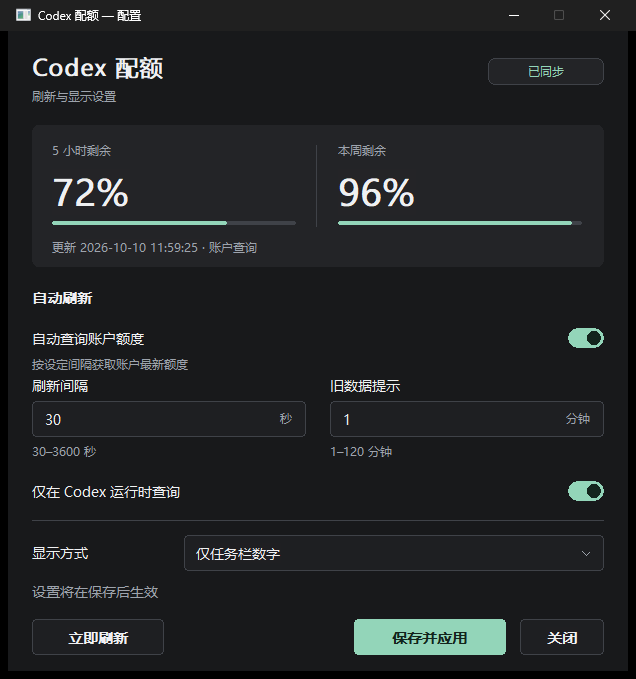
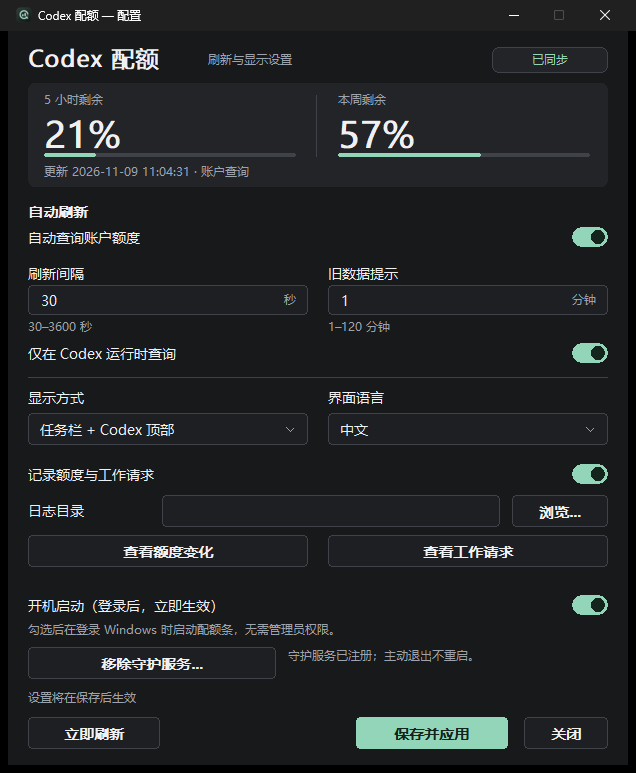
Prepare preview.10 packages, safe uninstall and bilingual release notes

diff --git a/README.en.md b/README.en.md
@@ -10,7 +10,7 @@ It is intended for Codex desktop or CLI users who want visible quota values and 
 
 Built with C++17 and native platform interfaces, without Electron or WebView. Chinese/English can be selected in Settings and applied immediately. This is an independently running companion, not affiliated with OpenAI. See [README.md](README.md) for the Chinese guide.
 
-**[Download v3.0.0-preview.9](https://github.com/jyongli/codex-quota-strip/releases/tag/v3.0.0-preview.9)** · [What's new](docs/releases/v3.0.0-preview.9.en.md) · [Choose an installer / compatibility / install and remove](docs/installers.en.md) · [Linux/macOS source builds](docs/native-desktop.en.md)
+**[Download v3.0.0-preview.10](https://github.com/jyongli/codex-quota-strip/releases/tag/v3.0.0-preview.10)** · [What's new](docs/releases/v3.0.0-preview.10.en.md) · [Choose an installer / compatibility / install and remove](docs/installers.en.md) · [Linux/macOS source builds](docs/native-desktop.en.md)
 
 Commands and detailed settings below primarily describe Windows. Use the separate native guide above for Linux/macOS.
 
@@ -28,6 +28,7 @@ Commands and detailed settings below primarily describe Windows. Use the separat
 | Manual refresh and status | Refresh from the tray/menu bar or settings window and view quota/refresh status. The stale-data threshold is adjustable from 1–120 minutes, with a 5-minute default. |
 | Chinese and English UI | Choose Chinese or English in Settings. Saving immediately updates labels, menus and status messages; the choice survives restart. |
 | Native settings window | Set the refresh interval, stale threshold, query conditions and display position through a GUI. Windows uses a native dark style; Linux/macOS use their platform interfaces. |
+| Windows login startup and watchdog | Independently enable per-user startup and an optional system service. Recover abnormal exits, respect normal exits, and keep the desktop app under the signed-in user's permissions. |
 | Local account and settings | Queries use the signed-in local Codex and selected data directory. Settings stay on the computer; authentication changes clear the previous account snapshot. |
 | Reuse Codex proxy settings | Queries read Codex proxy environment settings automatically, without configuring a separate endpoint in the companion. |
 | Quota change history | Daily CSV files in a selected directory contain remaining quotas, changes in percentage points, source and timestamps; view them as a native list or chart. |
@@ -79,7 +80,7 @@ Open the history viewer from Settings or the tray/menu bar and select **Work req
 - Quota columns show **reference account snapshot changes**. They may include concurrent requests, and the starting snapshot may predate the request. They are not an individually attributable charge. Reset/authentication boundaries do not produce cross-boundary quota differences.
 - Local events do not provide verifiable actual charges per request: the amount is “—”, and actual amount/currency CSV fields stay empty. Subscription percentages cannot be converted into dollars; [official pricing guidance](https://learn.chatgpt.com/docs/pricing) distinguishes API token prices from subscription usage.
 - All platforms use filesystem events: initial per-file tails are limited to 256 KiB; tracked requests allow up to 8 MiB for one catch-up. Final-response text is streamed away, retaining a 32 KiB metadata-buffer limit. Gaps beyond these bounds yield partial records where identifiable; unrecoverable events may be missed, and full historical recovery is not promised. Viewing is limited to the latest 30 days, 2,000 rows/2 MiB, without additional online queries, model requests or polling.
-- History, request usage and source conversations are included in v3.0.0-preview.9. Quit the previous app before updating; settings and existing CSV files are preserved.
+- History, request usage and source conversations are included in v3.0.0-preview.10. Quit the previous app before updating; settings and existing CSV files are preserved.
 
 ### Low-resource design
 
@@ -325,9 +326,13 @@ $quotaShortcut.WorkingDirectory = Split-Path -Parent $quotaExe
 $quotaShortcut.Save()
 ```
 
-### Start at Windows sign-in
+### Windows sign-in startup and watchdog
 
-Create a shortcut in the current user's Startup folder. This starts **at Windows sign-in**, not exclusively with Codex; the default `only_with_codex=1` limits scheduled queries while the desktop app is not open.
+Starting with v3.0.0-preview.10, Windows Settings provides **Start at Windows login (applies immediately)**. Click the right-hand slider; labels and blank row space do not activate it. This manages the current user's login entry without administrator access. Switching it off removes this installation's entry. Windows startup-app policies can still disable or delay it. Manage any previously created manual Startup shortcut separately to avoid duplicate launches.
+
+For crash recovery, select **Register watchdog service…** and approve elevation with the same Windows account. The service watches the strip once it starts for that signed-in user. Enable sign-in startup as well to start and watch it automatically after login. Recovery stays in the same signed-in session, with bounded retries. A normal tray exit, sign-out, or service stop does not relaunch it. For portable builds, remove the service and clear startup in Settings before moving or deleting the files.
+
+For earlier versions without the checkbox, you can create a shortcut in the current user's Startup folder:
 
 ```powershell
 $quotaExe = (Resolve-Path .\build\CodexQuotaStrip.exe).Path

diff --git a/docs/releases/v3.0.0-preview.10.en.md b/docs/releases/v3.0.0-preview.10.en.md
@@ -1,0 +1,32 @@
+# v3.0.0-preview.10 release notes
+
+[中文](v3.0.0-preview.10.zh-CN.md) | **English** · [Download this release](https://github.com/jyongli/codex-quota-strip/releases/tag/v3.0.0-preview.10)
+
+## Windows changes
+
+- **Login startup:** enable “Start at Windows login (applies immediately)” in Settings. It manages the current user's startup entry without administrator rights. Switching it off removes this installation's entry.
+- **Optional watchdog service:** select “Register watchdog service…” and approve administrator elevation with the same Windows account. The service watches an already-started companion, recovers abnormal exits under the same user and login session, and allows at most three recovery attempts. A normal tray exit stays closed. It does not open a desktop UI before login. Also enable login startup to launch automatically after sign-in. Both features are off by default.
+- **Compact Settings:** reduce content height from 994 to 734 logical pixels, put display/language selectors side by side, and align directory and service controls on shared rows. Keep 14-pixel body text and scrolling on smaller screens.
+- **Prevent accidental changes:** only the right-hand slider responds to mouse activation; labels and blank space do not toggle it, and releasing outside the slider cancels. Wheel input over a closed selector scrolls the page without changing the selection. Keyboard and open-list interaction remain available.
+- **Painting fixes:** repaint the whole switch after state changes to remove native checkbox remnants. Batch child-window movement and double-buffer Settings to reduce scroll flicker.
+
+The watchdog waits for process-exit events without periodic process scans, screen capture or extra quota network queries. Registration requires elevation by the same account; a different administrator's credentials are rejected. The desktop companion runs with the signed-in user's permissions. Local verification covered normal-exit suppression and actual crash recovery under the original user/session, plus isolated startup registry, pipe permissions and source-image checks.
+
+Linux/macOS packages are rebuilt from the same source commit and retain their existing features. This release's startup, watchdog and compact-layout changes apply only to Windows.
+
+## Choose a download
+
+| Environment | File and installation |
+| --- | --- |
+| Windows 10 1809+ / 11, Intel or AMD x64 | `CodexQuotaStrip-windows-x64-setup.exe`: per-user installation wizard. |
+| Portable Windows x64 | `CodexQuotaStrip-windows-x64.zip`: extract everything and run `CodexQuotaStrip.exe`; keep `CodexQuotaGuard.exe` beside it. Physical Windows 11 ARM64 emulation remains untested. |
+| Ubuntu 22.04/24.04 or Debian 12, amd64 | `CodexQuotaStrip-linux-x86_64.deb`: `sudo apt install ./CodexQuotaStrip-linux-x86_64.deb`. |
+| Fedora 43, x86_64 | `CodexQuotaStrip-linux-x86_64.rpm`: `sudo dnf install ./CodexQuotaStrip-linux-x86_64.rpm`. |
+| Other glibc Linux x86_64 / no sudo | `CodexQuotaStrip-linux-x86_64.tar.gz`: extract and run its `bash install.sh`; system runtime libraries are required. |
+| macOS 14+, Apple Silicon or Intel | Recommended: `CodexQuotaStrip-macos-universal.dmg` drag-and-drop install. Alternatively use the `.pkg` wizard or `.zip` app archive. |
+
+Quit the old companion before updating; install into the same directory or replace the portable files to preserve settings and CSV logs. Remove the service and disable the old startup entry before moving/deleting a portable directory. Remove and re-register the service when updating its component. The new Windows uninstaller removes this installation's startup entry/service; cancelling service-removal authorization aborts uninstall and preserves the files.
+
+Linux overlay following requires X11; use the tray on Wayland. macOS packages remain ad-hoc signed without Developer ID signing/notarization; following requires Accessibility permission. `SHA256SUMS.txt` verifies attachments, `BUILD-INFO.txt` identifies the source/build, and the two `Source code` downloads are source archives.
+
+[Complete installation and compatibility guide](../installers.en.md) · [README](../../README.en.md)

diff --git a/docs/releases/v3.0.0-preview.10.zh-CN.md b/docs/releases/v3.0.0-preview.10.zh-CN.md
@@ -1,0 +1,32 @@
+# v3.0.0-preview.10 更新说明
+
+**中文** | [English](v3.0.0-preview.10.en.md) · [下载本版](https://github.com/jyongli/codex-quota-strip/releases/tag/v3.0.0-preview.10)
+
+## Windows 新增与修复
+
+- **登录自启**：配置中打开“开机启动（登录后，立即生效）”，管理当前用户的启动项，无需管理员。取消开关会移除本安装的登记。
+- **可选守护服务**：单独点击“注册守护服务…”，以当前 Windows 账号批准管理员提示。服务监护已启动的配额程序，异常退出后在同一用户、同一登录会话恢复，最多尝试三次；从托盘主动退出不会重启。服务本身不在登录前打开界面。需要登录后自动运行时，同时启用登录自启。两项默认均关闭。
+- **紧凑配置页**：内容高度由 994 缩至 734 个逻辑像素，显示与语言并排，目录、服务状态采用同排布局；保留 14 像素正文和小屏滚动。
+- **避免误操作**：只有右侧滑块响应鼠标点击，点击文字／空白不切换，移出滑块后松开会取消。收起的下拉框不再随滚轮改选项，而是滚动页面；键盘和展开列表继续正常使用。
+- **重绘修复**：开关状态同步完整重绘，不再残留左侧原生复选框；滚动采用批量控件移动和双缓冲，减少闪烁。
+
+守护服务等待进程退出事件，平时不定时扫描进程、不抓屏，也不增加额度网络查询。注册只允许当前账号提权，不接受其他管理员账号代为注册；配额程序以登录用户权限运行。已验证本机正常退出保持关闭、异常退出在原用户和会话恢复，以及隔离注册表、管道权限和源映像校验。
+
+Linux／macOS 本轮提供同一源码提交的重新构建包，继续保留原有功能；本轮自启、守护和紧凑布局改动仅适用于 Windows。
+
+## 选择下载包
+
+| 系统／用途 | 文件与安装方式 |
+| --- | --- |
+| Windows 10 1809+／11，Intel 或 AMD x64 | `CodexQuotaStrip-windows-x64-setup.exe`，当前用户安装向导。 |
+| Windows x64，免安装 | `CodexQuotaStrip-windows-x64.zip`，完整解压并运行 `CodexQuotaStrip.exe`；保留旁边的 `CodexQuotaGuard.exe`。Windows 11 ARM64 模拟尚未实机验证。 |
+| Ubuntu 22.04／24.04、Debian 12，amd64 | `CodexQuotaStrip-linux-x86_64.deb`，执行 `sudo apt install ./CodexQuotaStrip-linux-x86_64.deb`。 |
+| Fedora 43，x86_64 | `CodexQuotaStrip-linux-x86_64.rpm`，执行 `sudo dnf install ./CodexQuotaStrip-linux-x86_64.rpm`。 |
+| 其他 glibc Linux x86_64／无 sudo 权限 | `CodexQuotaStrip-linux-x86_64.tar.gz`，解压后执行包内 `bash install.sh`；需系统运行库。 |
+| macOS 14+，Apple Silicon 或 Intel | 推荐 `CodexQuotaStrip-macos-universal.dmg` 拖放安装；也可选 `.pkg` 安装向导或 `.zip` 应用包。 |
+
+升级前从托盘／菜单栏退出旧程序，沿用原目录安装或替换文件，保留用户配置和 CSV。便携版移动／删除旧目录前，先在旧配置中移除守护服务、关闭自启；服务组件更新时也应先移除旧服务再重新注册。Windows 新安装器卸载时会清理本安装登记的自启及服务；取消服务移除授权会中止卸载并保留文件。
+
+Linux 配额条跟随需要 X11；Wayland 使用托盘。macOS 仍为 ad-hoc 签名，未 Developer ID 签名／公证；窗口跟随需要辅助功能权限。`SHA256SUMS.txt` 校验附件，`BUILD-INFO.txt` 标识源码及构建，`Source code` 两项为源码。
+
+[完整安装与兼容说明](../installers.zh-CN.md) · [使用说明](../../README.md)

diff --git a/CHANGELOG.md b/CHANGELOG.md
@@ -2,6 +2,13 @@
 
 ## Unreleased
 
+## v3.0.0-preview.10 — 2026-11-09
+
+- Windows 配置页改为紧凑布局：内容高度由 994 缩至 734 个逻辑像素，显示／语言并排，目录与服务状态同排，保留正文大小、小屏滚动和中英文显示。 / Compact Windows settings from 994 to 734 logical pixels with side-by-side display/language selectors and inline directory/service controls, preserving body text size, small-screen scrolling and both languages.
+- Windows 配置开关仅响应右侧滑块区域的鼠标点击，点击标签／空白或移出滑块后松开不切换；收起的下拉框将滚轮交给配置页，不再误改选项，保留键盘与展开列表操作。 / Restrict Windows switch mouse activation to the slider and cancel release outside it; forward wheel input from closed selectors to the settings page without changing selections, retaining keyboard and open-list behavior.
+- Windows 配置开关完整重绘，消除左侧原生框残留与右侧状态不同步；滚动直接批量移动控件并对设置页双缓冲，减少闪烁。 / Repaint Windows settings switches completely to remove native checkbox remnants and stale tracks; batch controls directly to their scrolled positions and double-buffer the settings page to reduce flicker.
+- Windows 配置新增独立的登录自启和可选系统守护服务。自启无需提权，服务仅守护已登录用户的配额进程，异常退出有限重试，正常退出不重启。 / Add independent Windows login startup and an opt-in watchdog service. Startup needs no elevation; the watchdog recovers a signed-in user's crashed strip with bounded retries and honors a normal exit.
+
 ## v3.0.0-preview.9 — 2026-11-04
 
 - API／Token 模式直接显示本机本次运行已记录的 Token，剩余保持 —；按持久化去重结果累计，不重复缓存／推理子项；支持未知／部分下限、账号与配置边界重计和中英文显示，不增加网络查询。 / Display local tokens recorded this run directly in API/Token mode with unknown remaining balance; count only persisted deduplicated requests, preserve partial lower bounds and authentication/configuration resets, and localize both languages without additional network queries.

diff --git a/docs/installers.en.md b/docs/installers.en.md
@@ -1,6 +1,6 @@
 # Choose an installer and supported environment
 
-[中文](installers.zh-CN.md) | **English** · [Download v3.0.0-preview.9](https://github.com/jyongli/codex-quota-strip/releases/tag/v3.0.0-preview.9)
+[中文](installers.zh-CN.md) | **English** · [Download v3.0.0-preview.10](https://github.com/jyongli/codex-quota-strip/releases/tag/v3.0.0-preview.10)
 
 Sign in through local Codex first. Minimum requirements below apply to the quota companion; your Codex version has its own system requirements. Quit the companion through its tray/menu-bar menu before updating or uninstalling.
 
@@ -31,6 +31,10 @@ For portable use, extract the ZIP into a stable directory and run CodexQuotaStri
 ```powershell
 .\CodexQuotaStrip.exe --settings
 ```
+
+Preview.10 adds a **Start at Windows login (applies immediately)** switch and **Register watchdog service…** button. Login startup is per-user and needs no administrator rights. The optional watchdog requires administrator authorization by the same account; credentials for a different administrator are rejected. It recovers abnormal exits within the user's login session, respects normal exits, and allows at most three recovery attempts. Both features remain opt-in and are Windows-only in this release.
+
+Keep `CodexQuotaGuard.exe` next to the main executable. Registration copies the service component into a protected Program Files directory; the desktop app still runs with the logged-in user's permissions. Remove the service and disable startup before upgrading, moving or deleting a portable installation. The new uninstaller also removes this installation's registered startup entry and service; cancelling service-removal authorization cancels uninstall and preserves the application.
 
 Uninstall through Windows Settings → Apps or the Start menu entry. User settings.ini, additional user files and Codex account data are preserved. Previously configured custom startup hooks remain; remove them through their original setup if no longer needed.
 

diff --git a/docs/installers.zh-CN.md b/docs/installers.zh-CN.md
@@ -1,6 +1,6 @@
 # 安装包选择与兼容环境
 
-**中文** | [English](installers.en.md) · [下载 v3.0.0-preview.9](https://github.com/jyongli/codex-quota-strip/releases/tag/v3.0.0-preview.9)
+**中文** | [English](installers.en.md) · [下载 v3.0.0-preview.10](https://github.com/jyongli/codex-quota-strip/releases/tag/v3.0.0-preview.10)
 
 安装前先在本机 Codex 登录。以下最低系统要求指配额程序；Codex 本身还需满足其版本的系统要求。更新或卸载前，先从托盘／菜单栏退出配额程序。
 
@@ -31,6 +31,10 @@
 ```powershell
 .\CodexQuotaStrip.exe --settings
 ```
+
+preview.10 新增 **开机启动（登录后，立即生效）** 开关和 **注册守护服务…** 按钮。自启只登记当前用户，无需管理员；守护服务独立启用，需要当前账号的管理员授权，不接受替换为其他管理员账号的凭据。服务在登录会话中恢复异常退出的配额条，主动退出不会重启，最多尝试恢复三次。两项默认均关闭；本轮新增功能仅用于 Windows。
+
+Windows 包内的 `CodexQuotaGuard.exe` 必须与主程序放在一起。注册后会将服务组件复制到受保护的 Program Files 目录；配额条继续以登录用户的权限运行。升级、移动或删除便携版前，先在配置中移除守护服务，并取消旧目录的自启。新安装器卸载时也会清理本安装登记的自启和服务；取消服务移除授权时，卸载会中止并保留程序。
 
 卸载向导版使用“设置 → 应用 → 已安装的应用”或开始菜单中的卸载入口。卸载保留用户 `settings.ini`、其他自建文件和 Codex 账号数据。之前自行配置的启动钩子也会保留，如不再使用请按原配置方式移除。
 

diff --git a/docs/native-desktop.en.md b/docs/native-desktop.en.md
@@ -6,7 +6,7 @@ The native version uses C++17, GTK3/Ayatana indicators on Linux and AppKit on ma
 
 ## Downloads and platforms
 
-[Download the native preview](https://github.com/jyongli/codex-quota-strip/releases/tag/v3.0.0-preview.9) · [Installer choices, install/update/remove and compatibility](installers.en.md)
+[Download the native preview](https://github.com/jyongli/codex-quota-strip/releases/tag/v3.0.0-preview.10) · [Installer choices, install/update/remove and compatibility](installers.en.md)
 
 | Artifact | Environment |
 | --- | --- |

diff --git a/docs/native-desktop.zh-CN.md b/docs/native-desktop.zh-CN.md
@@ -6,7 +6,7 @@
 
 ## 下载与平台
 
-[下载原生预览版](https://github.com/jyongli/codex-quota-strip/releases/tag/v3.0.0-preview.9) · [完整选包、安装／升级／卸载及兼容说明](installers.zh-CN.md)
+[下载原生预览版](https://github.com/jyongli/codex-quota-strip/releases/tag/v3.0.0-preview.10) · [完整选包、安装／升级／卸载及兼容说明](installers.zh-CN.md)
 
 | 产物 | 适用环境 |
 | --- | --- |
